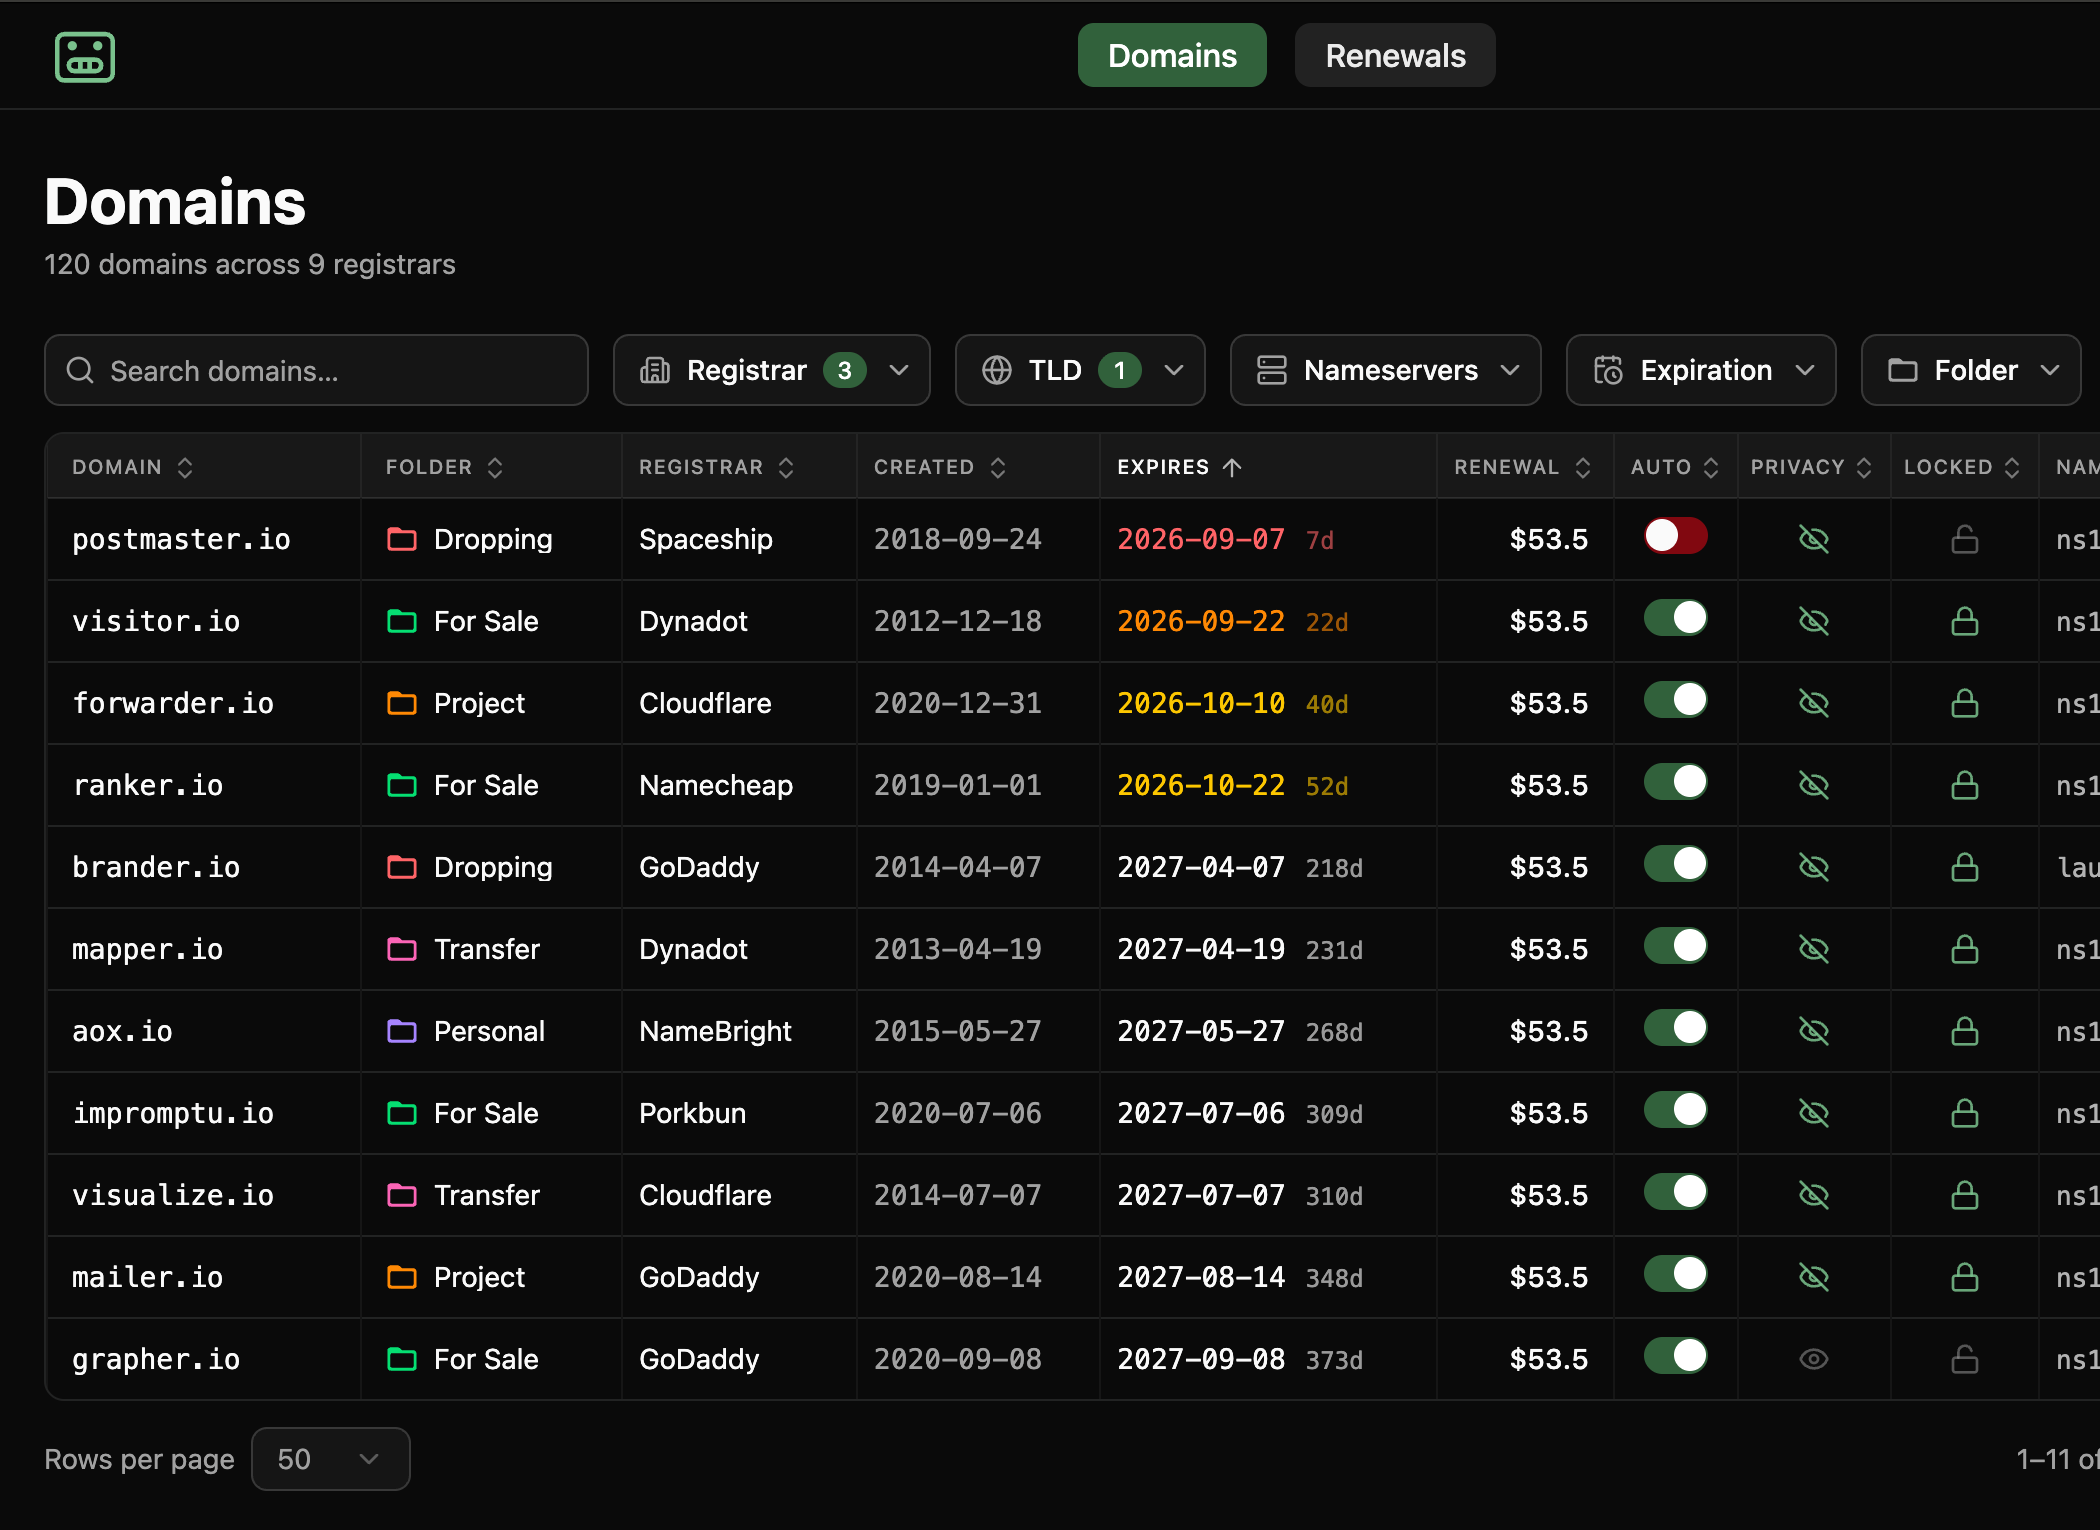
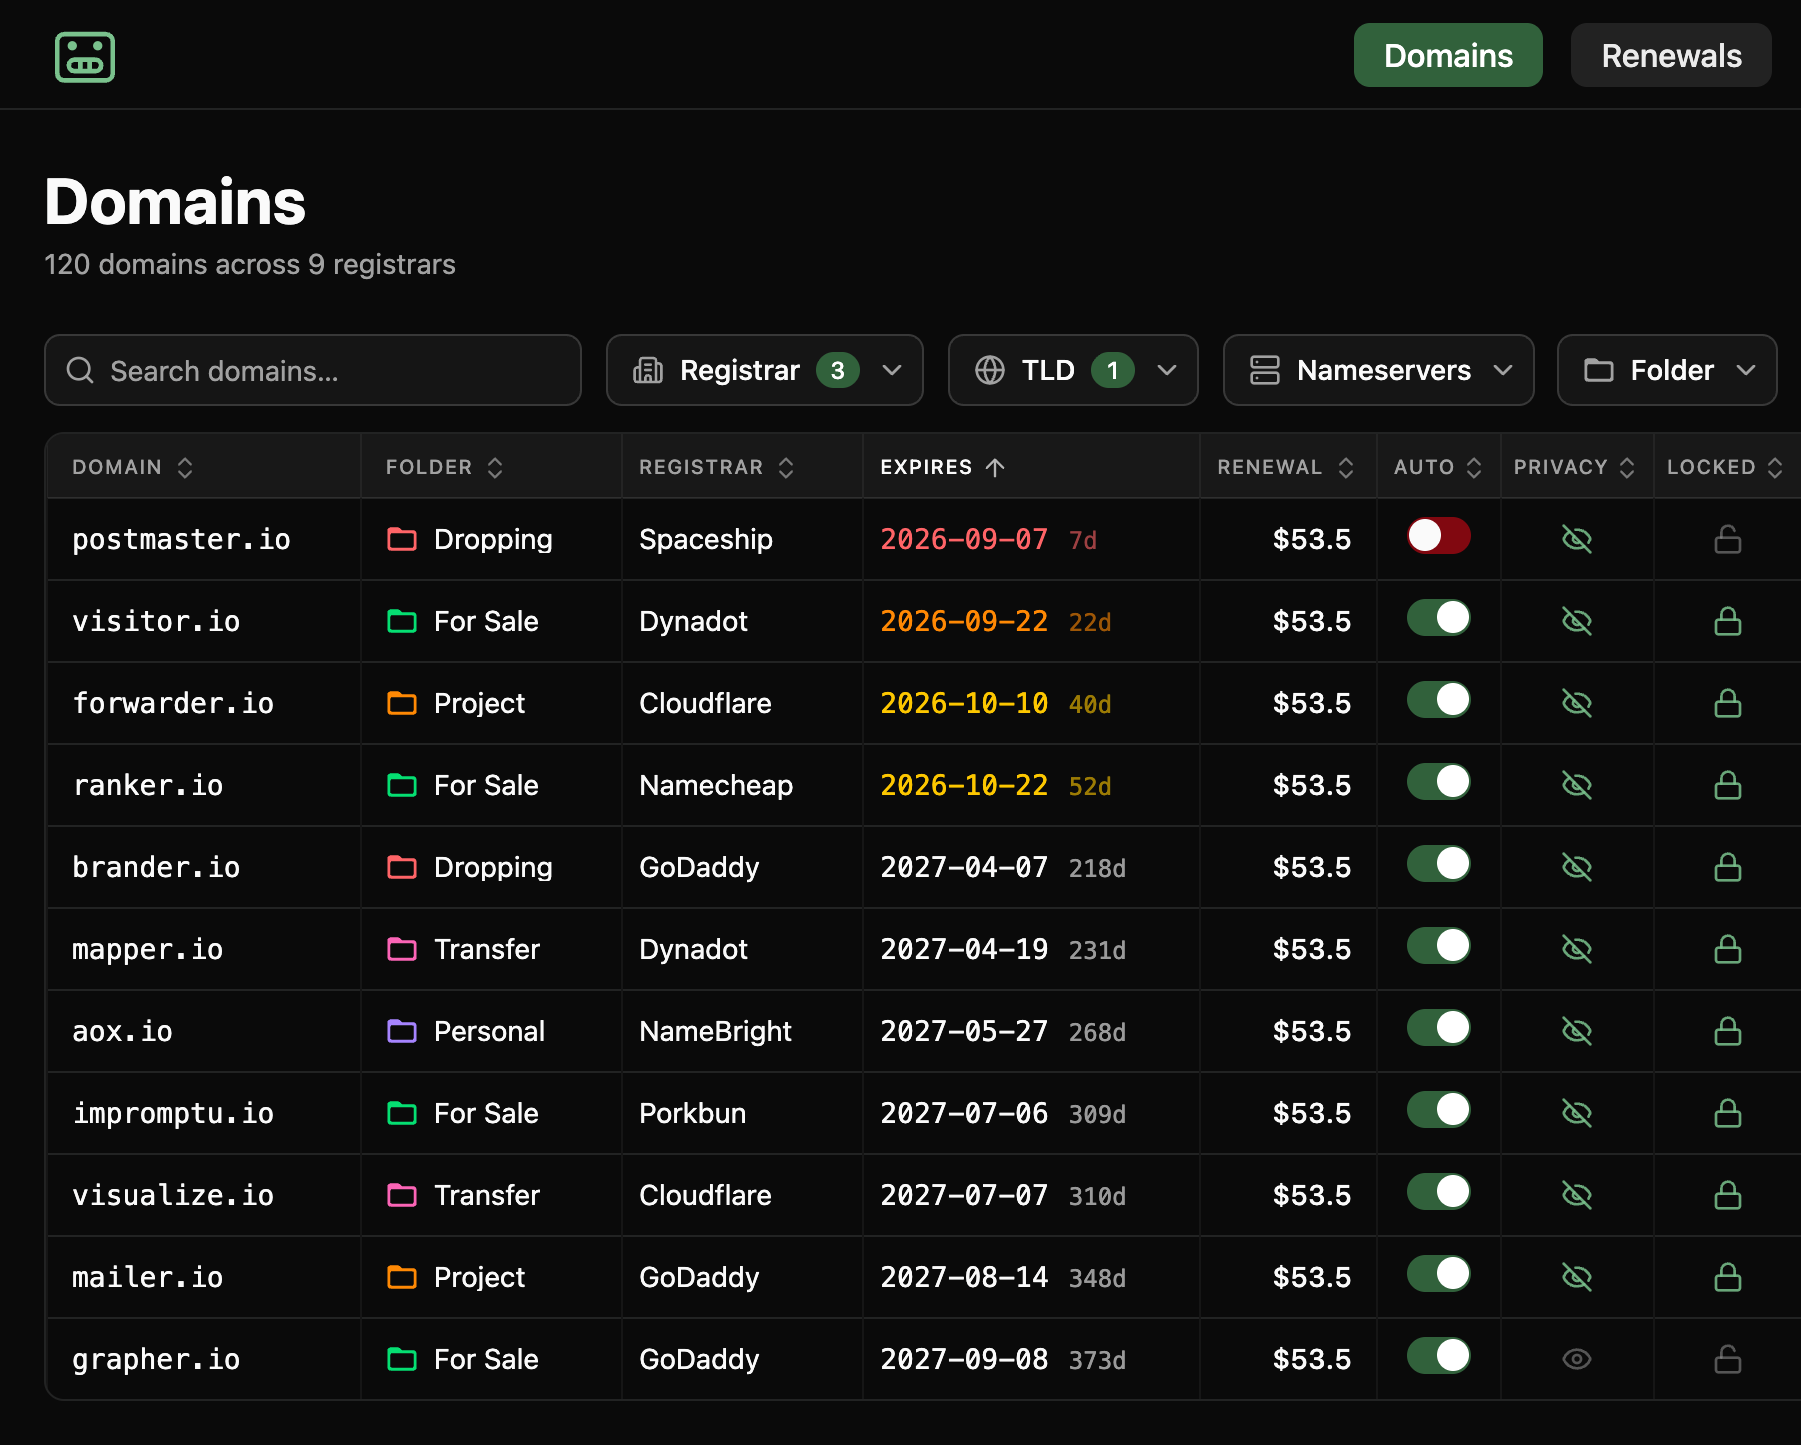
Site: show the whole hero screenshot
The capture is now pre-cropped (1801x1445) to the top-left of the Domains
screen on a row boundary, so drop the CSS that scaled the old 2100x1530
image to 142.857% and clipped it to that region, and let the frame use the
full hero column instead of 14px less. The frame's aspect-ratio and the
img's intrinsic size follow the new file.

diff --git a/site/src/styles.css b/site/src/styles.css
@@ -87,8 +87,7 @@ code, .mono { font-family: "IBM Plex Mono", ui-monospace, "SF Mono", Menlo, mono
    elevation. The glow sits on .window (unclipped); the bar + shot carry the
    border and clip their own corners. */
 .window {
-  /* 14px narrower than the hero column (image kept the same size — see .shot img). */
-  width: calc(100% - 14px);
+  width: 100%;
   position: relative; border-radius: 12px; isolation: isolate;
   box-shadow: 0 1px 2px rgba(0,0,0,.4), 0 22px 48px -14px rgba(0,0,0,.75);
 }
@@ -109,16 +108,15 @@ code, .mono { font-family: "IBM Plex Mono", ui-monospace, "SF Mono", Menlo, mono
 }
 .dot { width: 8px; height: 8px; border-radius: 50%; background: var(--line-strong); }
 .shot {
-  /* 2100/1530 is the image ratio; the shorter denominator crops the bottom of
-     the viewport (image size unchanged) so it lands on a row boundary. */
-  position: relative; aspect-ratio: 2100 / 1490; overflow: hidden;
+  /* 1801/1445 is the image ratio (the capture is pre-cropped to the top-left
+     of the Domains screen, ending on a row boundary). Declared so the frame
+     holds its height before the image loads. */
+  position: relative; aspect-ratio: 1801 / 1445; overflow: hidden;
   border: 1px solid var(--line-strong); border-top: none;
   border-radius: 0 0 12px 12px; background: var(--surface);
 }
-/* Scale up and anchor top-left so the frame shows the top-left ~70% of the
-   capture — the UI reads larger. The +20px (= 14px × 1.42857) cancels the
-   window's 14px narrowing so the image renders at the same absolute size. */
-.shot img { display: block; width: calc(142.857% + 20px); height: calc(142.857% + 20px); object-fit: cover; object-position: top left; }
+/* The whole capture, no scaling or cropping. */
+.shot img { display: block; width: 100%; height: auto; }
 .shot-label { display: inline-flex; align-items: center; gap: 8px; font-family: "IBM Plex Mono", monospace; font-size: .74rem; color: var(--muted); background: var(--bg); border: 1px dashed var(--line-strong); padding: 7px 12px; border-radius: 999px; }
 
 /* ── generic section ── */

diff --git a/site/index.html b/site/index.html
@@ -72,7 +72,7 @@
     <div class="window" aria-label="DomBot Domains screen">
       <div class="window-bar"><span class="dot"></span><span class="dot"></span><span class="dot"></span></div>
       <!-- Served from site/public at the site root (the same file the README links to). Above the fold, so load it eagerly. -->
-      <div class="shot"><img src="./dombot-domains.png" alt="DomBot Domains screen — 120 domains across 9 registrars in one sortable, filterable table" width="2100" height="1530" fetchpriority="high" decoding="async"></div>
+      <div class="shot"><img src="./dombot-domains.png" alt="DomBot Domains screen — 120 domains across 9 registrars in one sortable, filterable table" width="1801" height="1445" fetchpriority="high" decoding="async"></div>
     </div>
   </div>
 </header>
